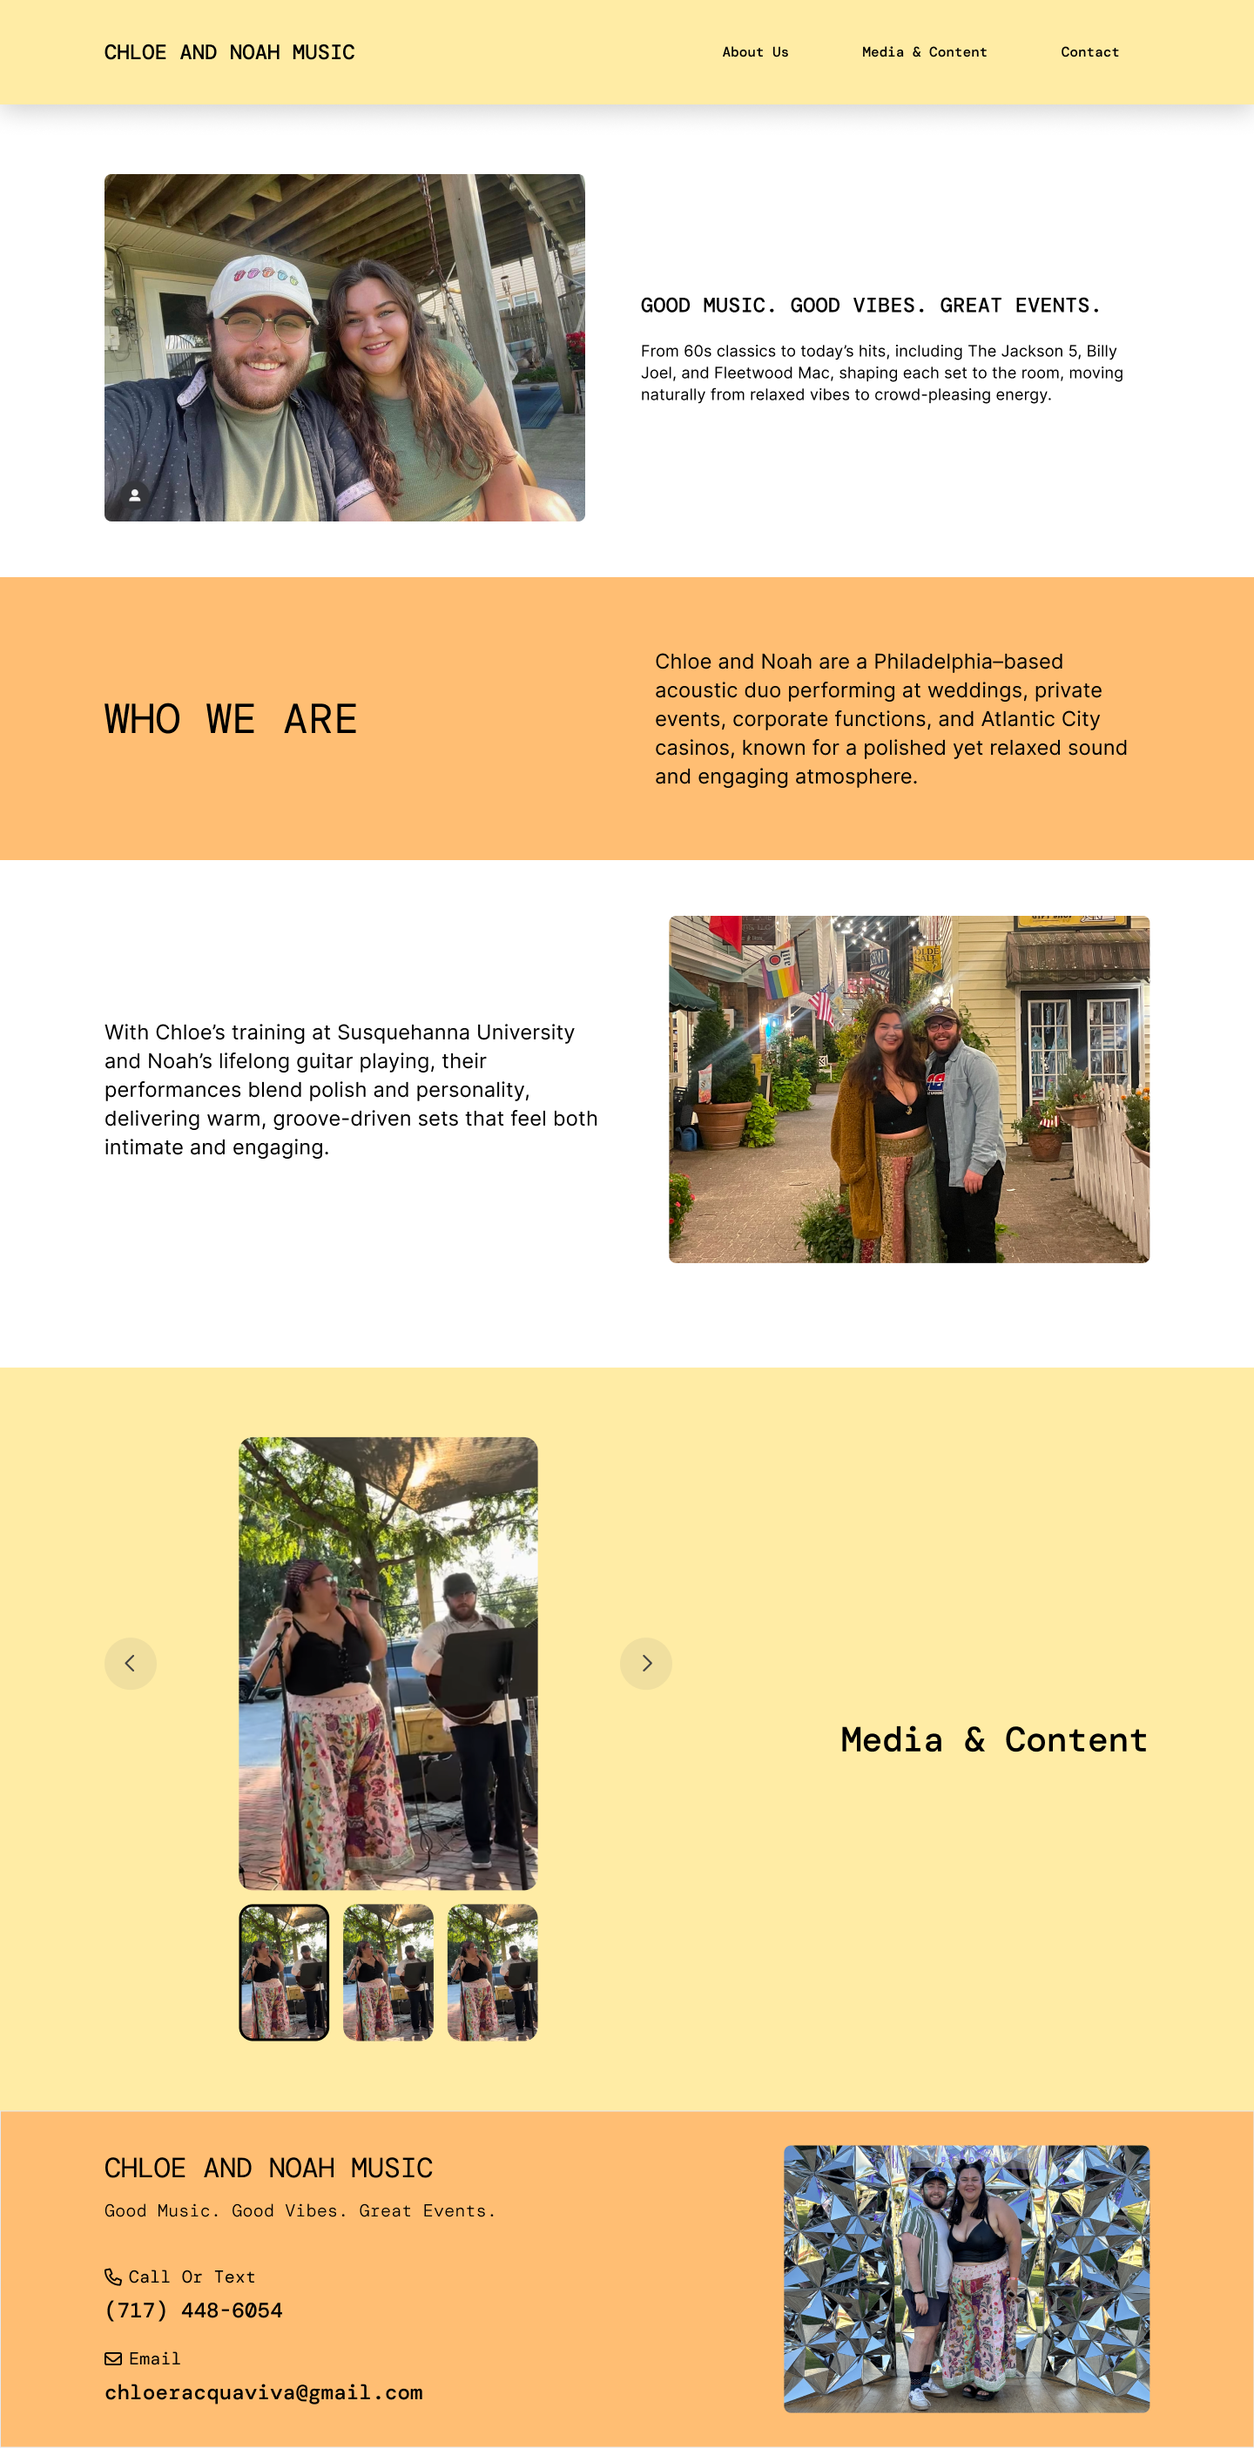
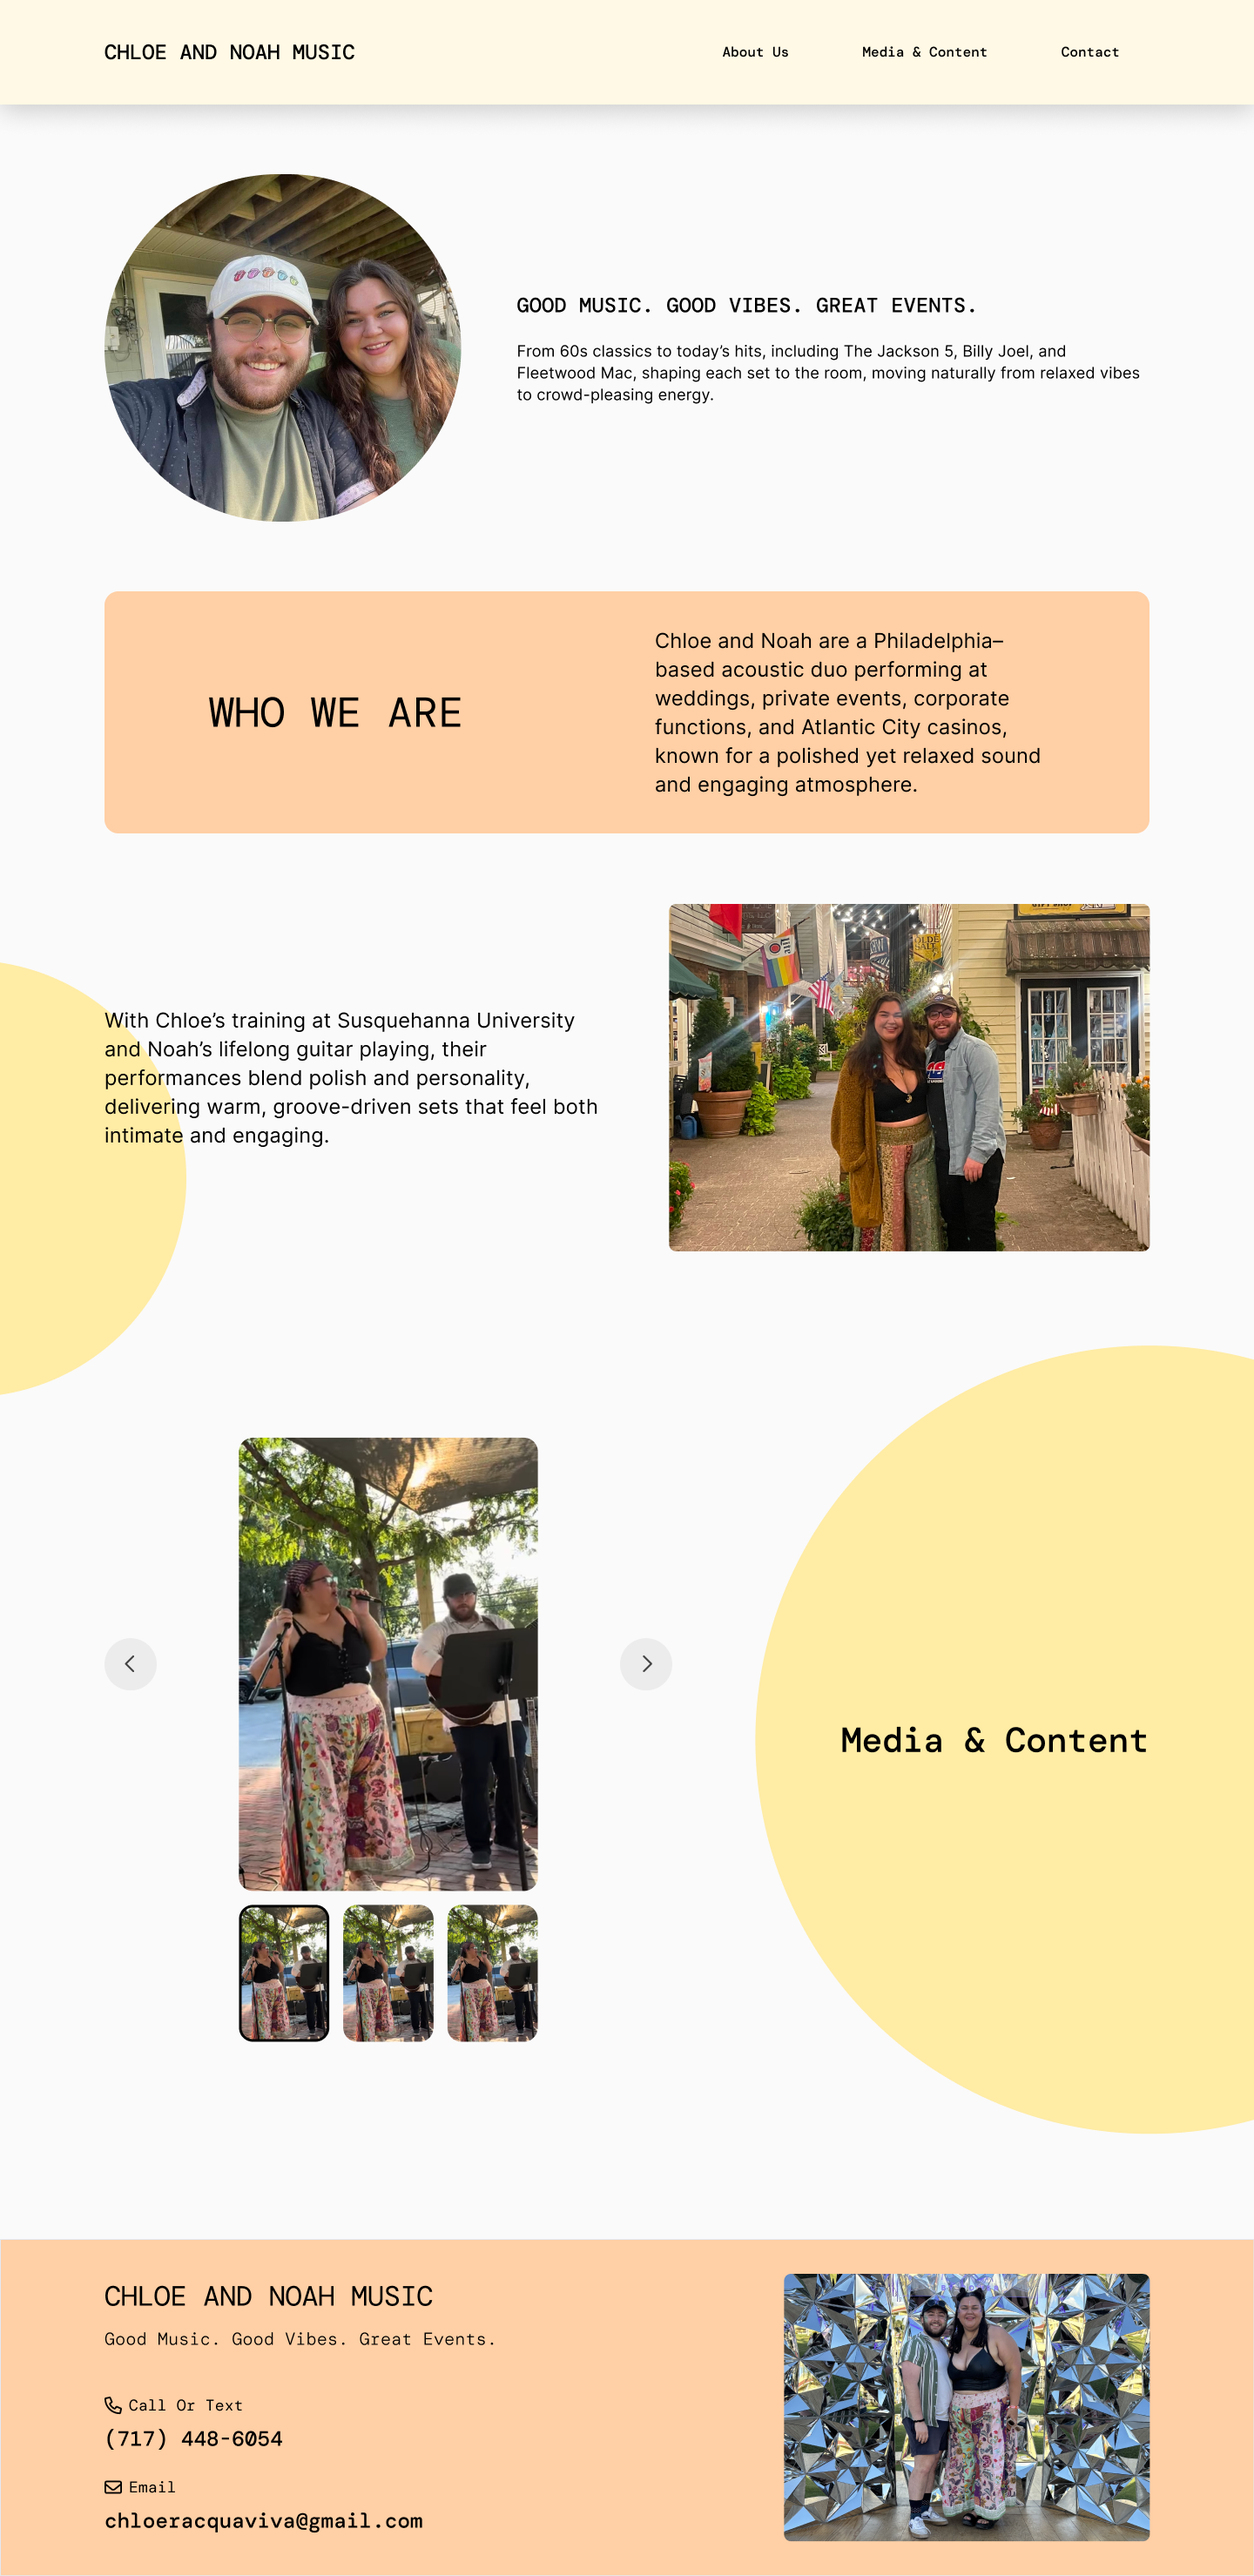
Adjust styling

diff --git a/style.css b/style.css
@@ -1,3 +1,6 @@
+@import url("https://fonts.googleapis.com/css2?family=DM+Mono:ital,wght@0,300;0,400;0,500;1,300;1,400;1,500&family=Raleway:ital,wght@0,100..900;1,100..900&display=swap");
+@import url("https://fonts.googleapis.com/css2?family=DM+Mono:ital,wght@0,300;0,400;0,500;1,300;1,400;1,500&family=Inter:ital,opsz,wght@0,14..32,100..900;1,14..32,100..900&family=Raleway:ital,wght@0,100..900;1,100..900&display=swap");
+
 * {
   margin: 0;
   padding: 0;
@@ -7,37 +10,60 @@ html {
   scroll-behavior: smooth;
 }
 body {
-  background: #ffffff;
+  background: #fafafa;
 }
 
 nav {
-  background: #ffeca5;
+  background: #fff9e5;
   display: flex;
   justify-content: space-between;
   align-items: center;
-  padding: 16px;
+  padding: 24px 120px;
   position: sticky;
   top: 0;
-  box-shadow: #666 0px 0px 24px 10px;
+  box-shadow: rgba(0, 0, 0, 0.1) 0 8px 32px 10px;
 }
 
-nav a {
-  text-decoration: none;
-  color: black;
-  padding: 12px;
+h1 {
+  font-size: 24px;
+  letter-spacing: 0;
+  font-weight: 600;
 }
 
+h1,
+h2,
+h3,
+h4 {
+  font-family: "DM Mono";
+}
+
+p,
+a {
+  letter-spacing: 1%;
+  font-family: "Inter";
+}
 #nav-link-container {
   display: flex;
   justify-content: space-between;
   align-items: center;
-  gap: 1.5em;
+  gap: 8px;
   padding: 12px;
 }
 
+#nav-link-container a {
+  text-decoration: none;
+  color: black;
+  padding: 12px;
+  padding: 8px 24px;
+  font-size: 16px;
+  font-family: "DM Mono";
+  letter-spacing: 0;
+}
+
 #nav-link-container .selected {
-  border-radius: 8px;
-  background: #ffbe73;
+  border-radius: 6px;
+  background: #fcd958;
+  /* box-shadow: rgba(0, 0, 0, 0.16) 0 4px 10px; */
 }
 
 img {
@@ -48,30 +74,58 @@ img {
   display: flex;
   align-items: center;
   padding: 120px;
-  gap: 5%;
+  justify-content: space-around;
 }
 
-#panel-1,
-#panel-3 {
-  justify-content: flex-start;
+h4 {
+  margin-bottom: 24px;
+  font-size: 24px;
 }
+
+h2 {
+  font-size: 48px;
+  font-weight: 400;
+  white-space: nowrap;
+  width: 30%;
+}
+
+#panel-1 {
+  justify-content: center;
+  gap: 120px;
+}
+
+#panel-1 img {
+  border-radius: 50%;
+  width: 500px;
+  height: 500px;
+  object-fit: cover;
+}
+
+#about-us p {
+  font-size: 24px;
+  width: 30%;
+}
+
+#hero-text h4 + p {
+  font-size: 18px;
+}
+
+#panel-1 {
+  gap: 64px;
+}
+
 #panel-2 {
-  background: #ffbe73;
-  justify-content: flex-end;
+  background: #ffcfa5;
 }
 
 .about-panel img {
-  width: 45%;
-}
-
-.about-panel p {
-  width: 50%;
+  width: 552px;
 }
 
 #media-content {
   background: #ffeca5;
   display: flex;
-  padding: 16px;
+  padding: 80px;
   align-items: center;
 }
 
@@ -89,17 +143,32 @@ img {
   justify-content: center;
   gap: 12px;
 }
+
 #selected-row img {
-  height: 400px;
+  height: 520px;
   display: none;
 }
 
+i.selected {
+  border-radius: 50%;
+  background: #ffcfa5;
+  box-shadow: #666 0 0 8px 4px;
+  border: red 2px solid;
+  width: 1.5em;
+}
+
 #thumbnail-row img {
-  height: 150px;
+  height: 157px;
 }
 
 #selected-row .selected {
   display: block;
+}
+
+#thumbnail-row {
+  display: flex;
+  justify-content: space-between;
+  width: 40%;
 }
 
 #thumbnail-row .selected {
@@ -107,12 +176,60 @@ img {
 }
 
 #contact-footer {
-  background: #ffbe73;
+  background: #ffcfa5;
   display: flex;
   justify-content: space-around;
   align-items: center;
-  padding: 12px;
+  padding: 40px;
 }
-#contact img {
-  width: 25%;
+
+#contact-footer h3 {
+  font-size: 32px;
+  font-weight: 400;
+  margin-bottom: 16px;
+}
+
+#footer-title h3 + p {
+  font-family: "DM Mono";
+  font-size: 18px;
+  margin-bottom: 40px;
+}
+
+#contact-footer img {
+  width: 420px;
+}
+
+#footer-text i {
+  font-size: 20px;
+  margin-right: 8px;
+}
+
+#footer-text p {
+  font-family: "DM Mono";
+  margin-bottom: 8px;
+}
+
+#phones {
+  margin-bottom: 24px;
+}
+
+#call-or-text {
+  font-size: 18px;
+}
+
+#phone-number {
+  font-weight: 600;
+  font-size: 24px;
+}
+
+#email a {
+  font-family: "DM Mono";
+  font-weight: 600;
+  font-size: 24px;
+  color: black;
+  text-decoration: none;
+}
+
+#email p {
+  font-size: 18px;
 }

diff --git a/index.html b/index.html
@@ -15,7 +15,7 @@
       <div id="nav-link-container">
         <a id="about-us-link" href="#about-us">About Us</a>
         <a id="media-content-link" href="#media-content">Media & Content</a>
-        <a id="contact-link" href="#contact">Contact</a>
+        <a id="contact-link" href="#contact-footer">Contact</a>
       </div>
     </nav>
     <div id="about-us">
@@ -52,11 +52,17 @@
     <div id="media-content">
       <div id="carousel">
         <div id="selected-row">
-          <i class="fas fa-chevron-left"></i>
+          <span id="left-stack">
+            <i class="fas fa-circle fa-stack-2x" style="color: white"></i>
+            <i class="fas fa-chevron-left fa-stack-1x"></i>
+          </span>
           <img class="selected" src="./images/go-your-own-way.png" />
           <img src="./images/kaleidoscope.png" />
           <img src="./images/silver-springs.png" />
-          <i class="fas fa-chevron-right"></i>
+          <span id="right-stack">
+            <i class="fas fa-circle fa-stack-2x" style="color: white"></i>
+            <i class="fas fa-chevron-right fa-stack-1x"></i>
+          </span>
         </div>
         <div id="thumbnail-row">
           <img class="selected" src="./images/go-your-own-way.png" />
@@ -73,8 +79,8 @@
           <p>Good Music. Good Vibes. Great Events.</p>
         </div>
         <div id="phones">
-          <p><i class="fas fa-phone"></i>Call Or Text</p>
-          <p>(717) 448-6054</p>
+          <p id="call-or-text"><i class="fas fa-phone"></i>Call Or Text</p>
+          <p id="phone-number">(717) 448-6054</p>
         </div>
         <div id="email">
           <p><i class="fas fa-envelope"></i>Email</p>

diff --git a/script.js b/script.js
@@ -1,10 +1,8 @@
 const highlightLink = (e) => {
-  console.log(e);
   e.target.classList.add("selected");
 };
 
 const unHighlightLink = (e) => {
-  console.log(e);
   e.target.classList.remove("selected");
 };
 
@@ -13,13 +11,20 @@ const addLinkHoverListeners = () => {
   const mediaContentLink = document.querySelector("#media-content-link");
   const contactLink = document.querySelector("#contact-link");
 
+  const leftChevron = document.querySelector(".fa-chevron-left");
+  const rightChevron = document.querySelector(".fa-chevron-right");
+
   aboutUsLink.addEventListener("mouseenter", highlightLink);
   mediaContentLink.addEventListener("mouseenter", highlightLink);
   contactLink.addEventListener("mouseenter", highlightLink);
+  leftChevron.addEventListener("mouseenter", highlightLink);
+  rightChevron.addEventListener("mouseenter", highlightLink);
 
   aboutUsLink.addEventListener("mouseleave", unHighlightLink);
   mediaContentLink.addEventListener("mouseleave", unHighlightLink);
   contactLink.addEventListener("mouseleave", unHighlightLink);
+  leftChevron.addEventListener("mouseenter", unHighlightLink);
+  rightChevron.addEventListener("mouseenter", unHighlightLink);
 };
 
 const addListeners = () => {
